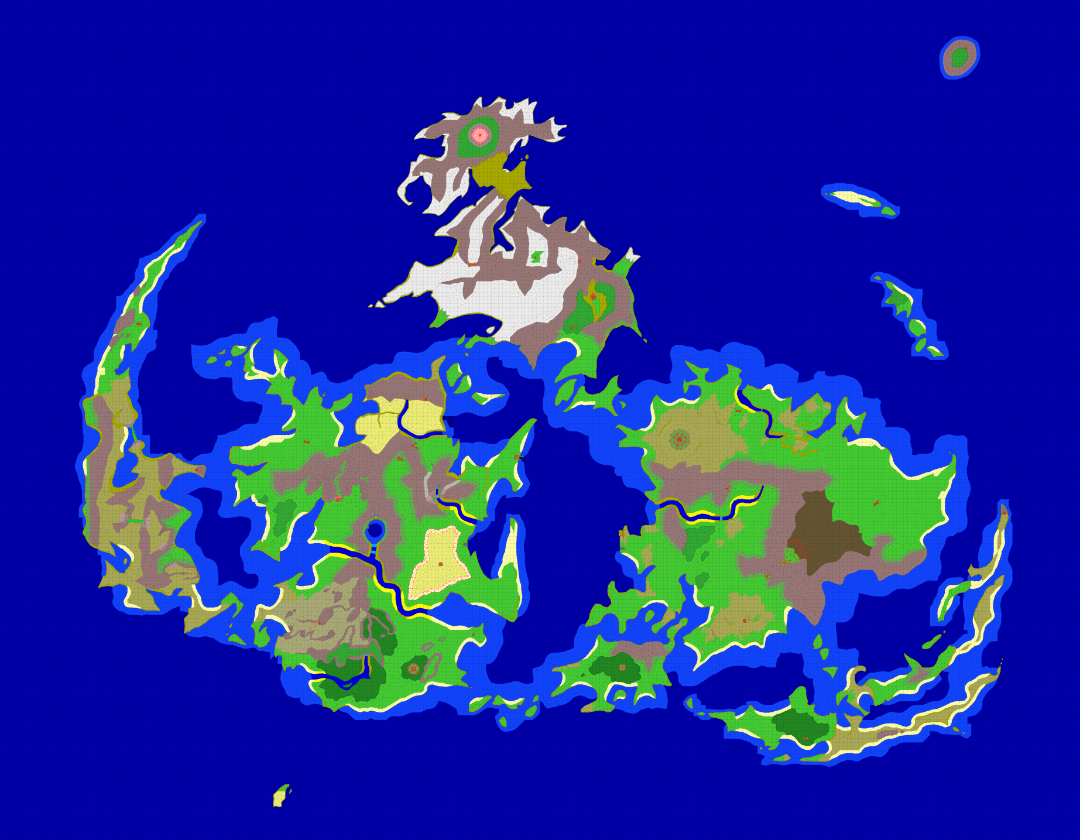
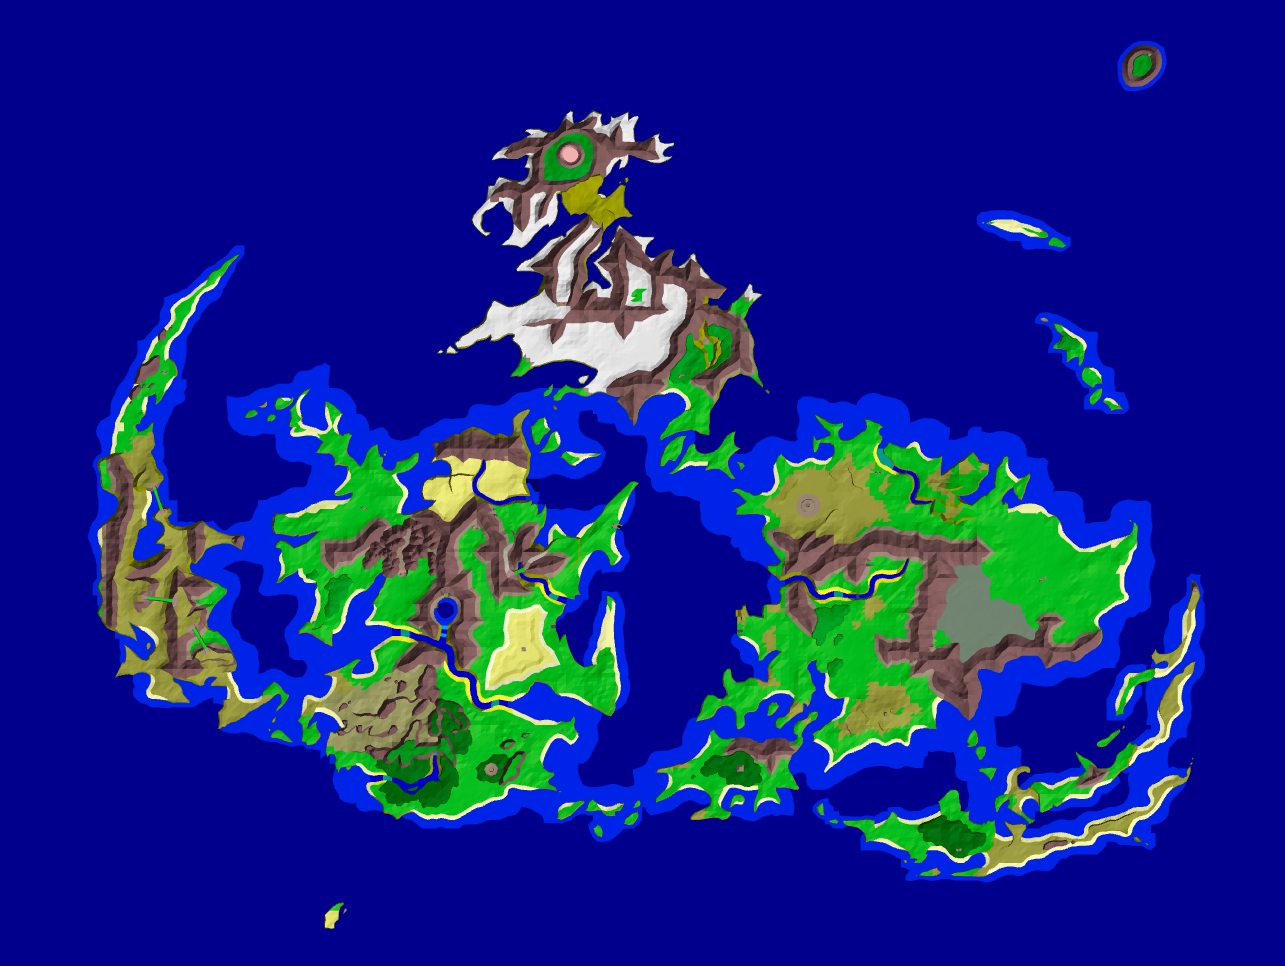
Version 1.3.1, reworked map viewer pins, updated map

diff --git a/src/components/map/modelTextures.ts b/src/components/map/modelTextures.ts
@@ -1,11 +1,18 @@
 import { Texture } from 'three';
-import Model0Pin from '@/assets/map-model-0.png';
-import Model3Pin from '@/assets/map-model-3.png';
-import Model40Pin from '@/assets/map-model-40.png';
-import Model13Pin from '@/assets/map-model-13.png';
-import Model6Pin from '@/assets/map-model-6.png';
-import Model4Pin from '@/assets/map-model-4.png';
-import Model5Pin from '@/assets/map-model-5.png';
+import CloudPin from '@/assets/pin-cloud.png';
+import TifaPin from '@/assets/pin-tifa.png';
+import CidPin from '@/assets/pin-cid.png';
+import DiamondPin from '@/assets/pin-diamond.png';
+import EmeraldPin from '@/assets/pin-emerald.png';
+import RubyPin from '@/assets/pin-ruby.png';
+import UltimatePin from '@/assets/pin-ultimate.png';
+import HighwindPin from '@/assets/pin-highwind.png';
+import SubmarinePin from '@/assets/pin-submarine.png';
+import BuggyPin from '@/assets/pin-buggy.png';
+import ChocoboPin from '@/assets/pin-chocobo.png';
+import TinyBroncoPin from '@/assets/pin-tinybronco.png';
+import ZolomPin from '@/assets/pin-zolom.png';
+import RedSubmarinePin from '@/assets/pin-redsubmarine.png';
 
 export interface ModelTextureConfig {
   id: number;
@@ -16,42 +23,77 @@ export interface ModelTextureConfig {
 export const MODEL_TEXTURES: ModelTextureConfig[] = [
   {
     id: 0,
-    texture: Model0Pin,
+    texture: CloudPin,
     name: 'Cloud',
   },
   {
+    id: 1,
+    texture: TifaPin,
+    name: 'Tifa',
+  },
+  {
+    id: 2,
+    texture: CidPin,
+    name: 'Cid',
+  },
+  {
     id: 3,
-    texture: Model3Pin,
+    texture: HighwindPin,
     name: 'Highwind',
   },
   {
     id: 4,
-    texture: Model4Pin,
+    texture: ChocoboPin,
     name: 'Wild Chocobo',
   },
   {
     id: 5,
-    texture: Model5Pin,
+    texture: TinyBroncoPin,
     name: 'Tiny Bronco',
   },
   {
     id: 6,
-    texture: Model6Pin,
+    texture: BuggyPin,
     name: 'Buggy',
   },
   {
+    id: 10,
+    texture: DiamondPin,
+    name: 'Diamond Weapon',
+  },
+  {
+    id: 11,
+    texture: UltimatePin,
+    name: 'Ultimate Weapon',
+  },
+  {
     id: 13,
-    texture: Model13Pin,
+    texture: SubmarinePin,
     name: 'Submarine',
   },
   {
     id: 19,
-    texture: Model4Pin,
+    texture: ChocoboPin,
     name: 'Chocobo',
   },
   {
+    id: 28,
+    texture: RedSubmarinePin,
+    name: 'Red Submarine',
+  },
+  {
+    id: 29,
+    texture: RubyPin,
+    name: 'Ruby Weapon',
+  },
+  {
+    id: 30,
+    texture: EmeraldPin,
+    name: 'Emerald Weapon',
+  },
+  {
     id: 40,
-    texture: Model40Pin,
+    texture: ZolomPin,
     name: 'Zolom',
   },
 ];

diff --git a/src/components/map/ModelOverlay.tsx b/src/components/map/ModelOverlay.tsx
@@ -46,16 +46,20 @@ const ModelOverlay: React.FC<ModelOverlayProps> = ({ zoomRef, visible = true }) 
     models.push(...gameState.worldModels);
     models.push(...additionalModels);
   } else if (gameState.worldMapType === 2) {
-    const submarine = gameState.worldModels.find(model => model.model_id === 13 && model.y < -2000);
+    const submarine = gameState.worldModels.find(model => [13, 28].includes(model.model_id) && model.y < -2000);
     if (submarine) {
       models.push(submarine);
     }
-    MIN_SIZE = 100;
+    const emerald = gameState.worldModels.find(model => model.model_id === 30);
+    if (emerald) {
+      models.push(emerald);
+    }
+    MIN_SIZE = 250;
     MAX_SIZE = 750;
   } else if (gameState.worldMapType === 3) {
-    models.push(...gameState.worldModels.filter(model => model.model_id === 0));
-    MIN_SIZE = 100;
-    MAX_SIZE = 750;
+    models.push(...gameState.worldModels.filter(model => [0, 1, 2].includes(model.model_id)));
+    MIN_SIZE = 150;
+    MAX_SIZE = 600;
   }
 
   if (gameState.worldMapType === 2) {
@@ -65,11 +69,11 @@ const ModelOverlay: React.FC<ModelOverlayProps> = ({ zoomRef, visible = true }) 
     });
   }
 
+  const quadSize = Math.min(MAX_SIZE, Math.max(MIN_SIZE, MAX_SIZE / zoomRef.current));
+
   // Filter out models that don't have textures
   const availableModelIds = MODEL_TEXTURES.map(config => config.id);
   const filteredModels = models.filter(model => availableModelIds.includes(model.model_id));
-
-  const quadSize = Math.min(MAX_SIZE, Math.max(MIN_SIZE, MAX_SIZE / zoomRef.current));
 
   return (
     <>

diff --git a/src/components/modals/VariablesEditorModal.tsx b/src/components/modals/VariablesEditorModal.tsx
@@ -155,6 +155,8 @@ export function VariablesEditorModal({ isOpen, setIsOpen, ff7 }: VariablesEditor
     await loadVariables();
   };
 
+  const bankTitles = ["1/2", "3/4", "B/C", "D/E", "7/F"]
+
   return (
     <Modal
       open={isOpen}
@@ -174,7 +176,7 @@ export function VariablesEditorModal({ isOpen, setIsOpen, ff7 }: VariablesEditor
               <SelectContent>
                 {[1, 2, 3, 4, 5].map((bank) => (
                   <SelectItem key={bank} value={bank.toString()} className="text-xs">
-                    Bank {bank}
+                    Bank {bank} ({bankTitles[bank - 1]})
                   </SelectItem>
                 ))}
               </SelectContent>

diff --git a/CHANGELOG.md b/CHANGELOG.md
@@ -1,5 +1,12 @@
 # Change Log
 
+## 1.3.1 (2025-02-16)
+
+### World
+
+* Reworked map viewer pins, added pins for all controllable models and weapons
+* Updated the static world map image
+
 ## 1.3.0 (2025-02-15)
 
 ### World
